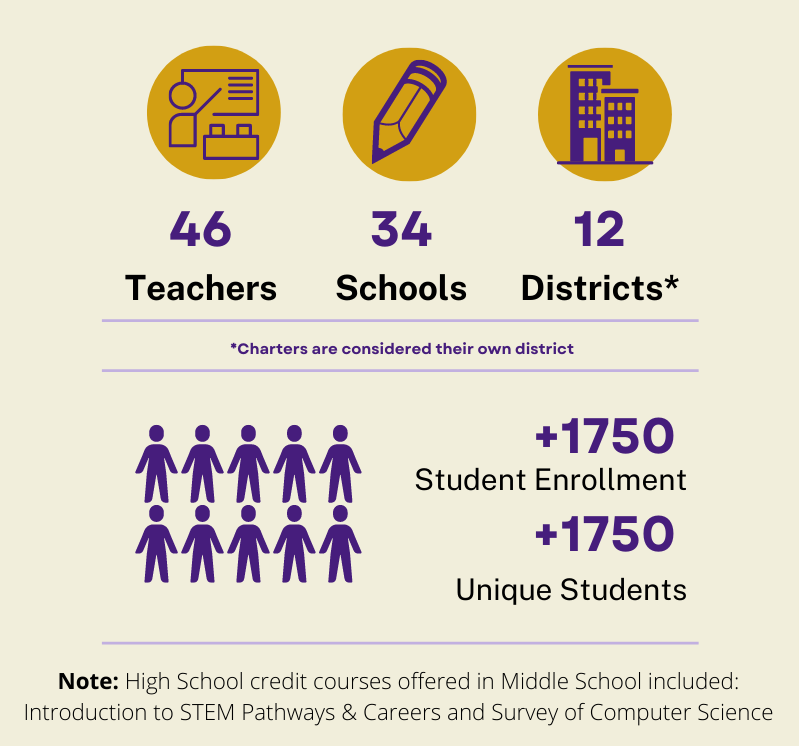
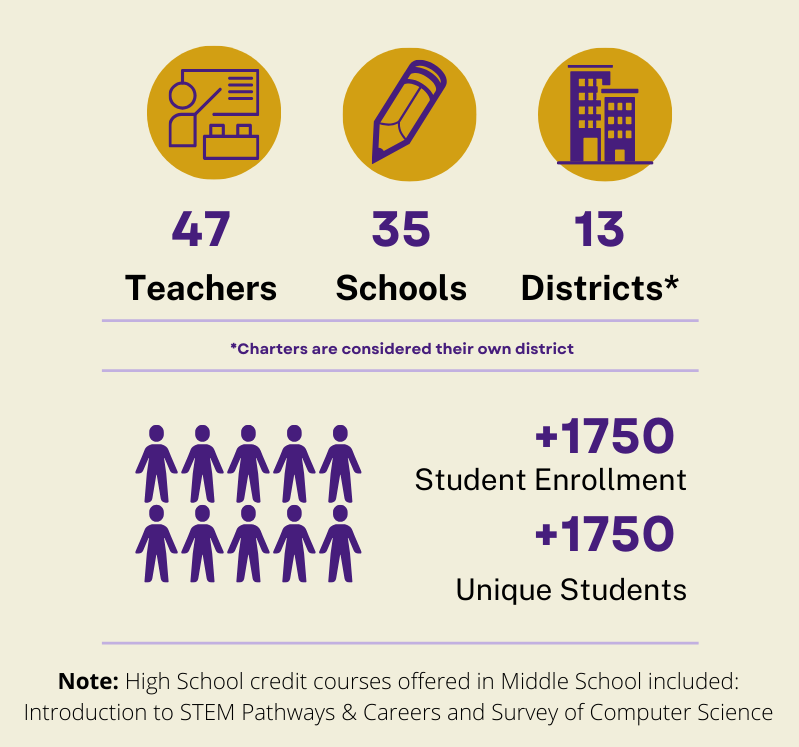
graphics, scholarships, grants, contact info

diff --git a/content/scholarships/_index.md b/content/scholarships/_index.md
@@ -26,31 +26,25 @@ design:
   </tr>
   <tr>
     <td>LSU Pre-Engineering Pathway Gold STEM Seal Scholarship</td>
-    <td>April 14, 2023</td>
+    <td>Opens March 1, 2024</td>
     <td>The LSU Pre-Engineering Pathway Gold STEM Seal Scholarship is a $1,500 scholarship sponsored by the College of Engineering and the Gordon A. Cain center.  It is awarded to one outstanding LSU Pre-Engineering Gold Seal endorsed student entering the College of Engineering each fall. The scholarship is awarded $750 for the fall semester and $750 for the spring semester of the incoming freshman year. For the scholarship to be renewed during the spring semester, the student must maintain a minimum college GPA of 3.0 in the first semester.</td>
     <td><a href="https://lsu.qualtrics.com/jfe/form/SV_8p7m7jaM9PGPEI6" target="_blank"><button style= "background-color:#fdd023; border: none ; border-radius: 5px; padding: 12px"> More Information </button></a> </td>
   </tr>
   <tr>
     <td>LSU VEX Robotics Scholarship</td>
-    <td>April 14, 2023</td>
+    <td>Opens March 1, 2024</td>
     <td>The LSU Pre-Engineering VEX is a $1,000 scholarship awarded to one outstanding LSU freshman student entering the College of Engineering each fall. The scholarship is awarded $500 for the fall semester and $500 for the spring semester of the incoming freshman year. For the scholarship to be renewed during the spring semester, the student must maintain a minimum college GPA of 3.0 in the first semester.</td>
     <td> <a href="https://lsu.qualtrics.com/jfe/form/SV_byIDgMemObpO6IC" target="_blank"><button style= "background-color:#fdd023; border: none ; border-radius: 5px; padding: 12px"> More Information </button></a> </td>
   </tr>
   <tr>
     <td>LSU College of Engineering Scholarship</td>
-    <td>Dec. 15, 2023</td>
+    <td>Dec. 15, 2024</td>
     <td>Automatically considered for scholarship if application to attend LSU is completed by December 15th and the intended major is from the College of Engineering.</td>
     <td> <a href="https://www.lsu.edu/eng/future/engineer-experience/scholarships.php" target="_blank"><button style= "background-color:#fdd023; border: none ; border-radius: 5px; padding: 12px"> More Information </button></a> </td>
   </tr>
   <tr>
-    <td>LSU College of Engineering FIRST Robotics Scholarship</td>
-    <td>Feb. 1, 2023</td>
-    <td>The LSU FIRST Robotics Scholarship is a $1,000/year scholarship awarded to one outstanding FIRST alumnus/alumnae entering the LSU College of Engineering each fall. Recipients can receive the award for up to four years if they remain in good academic (2.5 GPA) and disciplinary standing and demonstrate progress towards a degree from the College of Engineering each semester. The award will be disbursed in $500 installments each semester for up to eight semesters (for a total of up to $4,000).</td>
-    <td> <a href="https://www.lsu.edu/eng/future/engineer-experience/scholarships.php" target="_blank"><button style= "background-color:#fdd023; border: none ; border-radius: 5px; padding: 12px"> More Information </button></a> </td>
-  </tr>
-  <tr>
     <td>LSU PRISE Program</td>
-    <td>Feb. 28, 2023</td>
+    <td>Currently Closed</td>
     <td>The PRISE (Preparing Resilient Individuals for Success in Engineering) Program is an NSF-funded scholarship that is designed to help high-achieving, high potential engineering students with financial hardships persist through graduation. This program provides a need-based scholarship to entering freshmen engineering students for up to eight semesters and offers academic and professional development programs to help our students succeed in engineering.</td>
     <td> <a href="https://www.lsu.edu/eng/future/engineer-experience/scholarships.php" target="_blank"><button style= "background-color:#fdd023; border: none ; border-radius: 5px; padding: 12px"> More Information </button></a> </td>
   </tr>
@@ -71,58 +65,58 @@ design:
   </tr>
   <tr>
     <td>Amazon Future Engineer Scholarship</td>
-    <td>Jan. 20, 2023</td>
+    <td>Dec. 15, 2023</td>
     <td>Amazon Future Engineer Scholarship program provides underserved students with an opportunity to upgrade their careers with a $40,000 scholarship, plus a paid summer internship programming at Amazon.</td>
     <td><a href="https://www.amazonfutureengineer.com/scholarships?utm_campaign=RECFoundation&utm_medium=scholarship&utm_source=US&utm_source=2023+VRC%2FVIQC%2FVEXU+Teams+and+EPs&utm_campaign=70241f413c-EMAIL_CAMPAIGN_2022_10_11_05_49_COPY_01&utm_medium=email&utm_term=0_3efc727138-70241f413c-37686869" target="_blank"><button style= "background-color:#fdd023; border: none ; border-radius: 5px; padding: 12px"> More Information </button></a> </td>
  </tr>
  <tr>
     <td>Society of Women Engineers Scholarship</td>
-    <td>Sophomores and above-- Feb. 1, 2023
+    <td>Sophomores & above: Opens Dec. 2023
     <br>
-     Freshmen-- March 20, 2023
+     Freshmen: Opens Feb. 2024
     </td>
     <td>The SWE Scholarship Program provides financial assistance to those who identify as a woman and are studying community college, baccalaureate, or graduate programs in preparation for careers in engineering, engineering technology and fields related to engineering.</td>
     <td><a href="https://scholarships.swe.org/applications/login.asp" target="_blank"><button style= "background-color:#fdd023; border: none ; border-radius: 5px; padding: 12px"> More Information </button></a> </td>
  </tr>
   <tr>
     <td>The Brown Foundation Emmy Noether Awards</td>
-    <td>Feb. 26, 2023</td>
+    <td>Opens Jan. 2024</td>
     <td>The Emmy Noether Awards seek top aspiring female research scientists in any STEM (science, technology, engineering, or math) field to help realize their potential careers through financial and networking assistance. The Emmy Noether Awards will determine one gold medalist, two silver medalists, and up to 10 Emmy Noether Scholars.</td>
     <td><a href="https://www.thebrownfoundation.org/emmy-noether-award.html" target="_blank"><button style= "background-color:#fdd023; border: none ; border-radius: 5px; padding: 12px"> More Information </button></a> </td>
  </tr>
   <tr>
     <td>American Society of Mechanical Engineers High School Scholarship</td>
-    <td>March 15, 2023</td>
+    <td>Dec. 2023</td>
     <td>Graduating high school students are the next generation of engineers! The ASME INSPIRE Program and the ASME Auxiliary offer scholarships to graduating high school seniors interested in pursuing engineering degrees.</td>
     <td><a href="https://www.asme.org/asme-programs/students-and-faculty/scholarships/available-high-school-scholarships" target="_blank"><button style= "background-color:#fdd023; border: none ; border-radius: 5px; padding: 12px"> More Information </button></a> </td>
  </tr>
  <tr>
     <td>ITE Diversity Scholarship Program</td>
-    <td>March 15, 2023</td>
+    <td>March 15, 2024</td>
     <td>The purpose of this program is to increase underrepresented populations participation in the transportation profession by supporting increased diversity at the undergraduate level.  Diversity in transportation is critical as practitioners seek to fully understand the transportation needs of communities in the development of equitable mobility improvements to many areas of our society. </td>
     <td><a href="../../brochures/ITE.pdf" target="_blank"><button style= "background-color:#fdd023; border: none ; border-radius: 5px; padding: 12px"> More Information </button></a> </td>
  </tr>
  <tr>
     <td>Shell Company Technical Scholarship</td>
-    <td>March 15, 2023</td>
+    <td>March 15, 2024</td>
     <td>The Shell Company Technical Scholarship and Shell Incentive Fund Scholarship have been created to provide financial and career assistance to graduating high school seniors who have expressed an interest in the energy industry and demonstrated an aptitude in mathematics and science.</td>
     <td><a href="https://www.shell.us/careers/about-careers-at-shell/shell-graduate-program/scholarships.html" target="_blank"><button style= "background-color:#fdd023; border: none ; border-radius: 5px; padding: 12px"> More Information </button></a> </td>
  </tr>
  <tr>
     <td>Lockheed Martin STEM Scholarship</td>
-    <td>March 31, 2023</td>
+    <td>Opens early 2024</td>
     <td>Each year, the STEM Scholarship Program awards $10,000 to 200 recipients studying engineering or computer science at a 4-year college or university. Recipients may renew the scholarship up to three times for a total potential value of $40,000 per student.  </td>
     <td><a href="https://lockheedmartin.com/en-us/who-we-are/communities/stem-education/lm-scholarship-program.html" target="_blank"><button style= "background-color:#fdd023; border: none ; border-radius: 5px; padding: 12px"> More Information </button></a> </td>
  </tr>
   <tr>
     <td>Great Minds in STEM Scholars Program</td>
-    <td>April 30, 2023</td>
+    <td>Currently Closed</td>
     <td>The intent of the GMiS Scholars Program is to increase the persistence to graduation among underrepresented and underserved STEM college students. The financial support helps these students focus on their coursework so they can graduate on time, enter a STEM profession, continue to serve as a role model for future generations, and secure the country's place as the finest technological leader in the world. Applicants must be of Hispanic descent and/or must demonstrate significant leadership or service within the underserved community. </td>
     <td><a href="https://greatmindsinstem.org/gmis-scholarship-application/gmis-scholarships/" target="_blank"><button style= "background-color:#fdd023; border: none ; border-radius: 5px; padding: 12px"> More Information </button></a> </td>
  </tr>
  <tr>
     <td>S-STEM Scholars Program</td>
-    <td>Applications are currently closed.</td>
+    <td>Currently Closed</td>
     <td>Funded by the National Science Foundation, the LSU S-STEM Scholars program aims to increase the educational and career opportunities for academically talented, financially disadvantaged students who are pursuing degrees in basic sciences or mathematics. </td>
     <td><a href="https://www.lsu.edu/osi/programs/s-stem-scholars-program/index.php" target="_blank"><button style= "background-color:#fdd023; border: none ; border-radius: 5px; padding: 12px"> More Information </button></a> </td>
  </tr>

diff --git a/content/home/announcements.md b/content/home/announcements.md
@@ -74,21 +74,19 @@ This homepage section is an example of adding [elements](https://sourcethemes.co
 <div style="background-color:#ffffff90; font-color: #000000; border-style: double; padding: 25px">
 <center>
 
-## **2023-24 Pathways Information for School Administrators Now Available**
+## **Pathways Information for School Administrators**
 <br>
 
-The invitation to participate in the LSU STEM pathways program for the 2023-24 school year is now available! Please review this information along with our updated course catalog to determine which courses you would like to offer in the upcoming school year. The Memorandum of Understanding portal will open on March 15th for you to formally commit to offering one or more LSU STEM pathway course in 2023-24. 
-<br>
-For any questions, please email <a href="mailto:stempathways@lsu.edu">stempathways@lsu.edu</a>.
+Formal registration to participate in the LSU STEM pathways for the 2024-25 school year will be available in March. In the meantime, please review our current course catalog.  If you are interested in participating next year and would like to receive more information, please complete the request for information button. For any questions, please email <a href="mailto:stempathways@lsu.edu">stempathways@lsu.edu</a>.
 <br>
 <br>
-<a href="../../brochures/PathwaysInvitation.pdf" target="_blank"><button style= "background-color:#fdd023; border: none ; border-radius: 5px; padding: 12px"> LSU Pathways Invitation </button></a> <a href=" https://college-readiness.lsu.edu/pathways/mou/request" target="_blank"><button style= "background-color:#fdd023; border: none ; border-radius: 5px; padding: 12px"> MoU Request </button></a> <a href="https://docs.google.com/document/d/17UMraBfdxq1d85gddYo6lVdi27QJQEY0xPp_gZklPQo" target="_blank"><button style= "background-color:#fdd023; border: none ; border-radius: 5px; padding: 12px"> Returning Teachers </button></a> <a href="https://docs.google.com/document/d/1QqsUGYCeUTkjkRMGLlsf_fwB9pz9NJf9XhHrXYChm-o" target="_blank"><button style= "background-color:#fdd023; border: none ; border-radius: 5px; padding: 12px"> 2023-24 Course Catalog </button></a>
+<a href=" https://college-readiness.lsu.edu/pathways/mou/request" target="_blank"><button style= "background-color:#fdd023; border: none ; border-radius: 5px; padding: 12px"> Request Information </button></a> <a href="https://docs.google.com/document/d/1QqsUGYCeUTkjkRMGLlsf_fwB9pz9NJf9XhHrXYChm-o/edit" target="_blank"><button style= "background-color:#fdd023; border: none ; border-radius: 5px; padding: 12px"> 2023-24 Course Catalog </button></a> <a href="../../brochures/PathwaysInvitation.pdf" target="_blank"><button style= "background-color:#fdd023; border: none ; border-radius: 5px; padding: 12px"> 2023-24 LSU Pathways Invitation </button></a>
 <br>
-<br>
-
-LSU Pathways Invitation accessible version can be found <a href= "https://docs.google.com/document/d/1Z8_nO-yOT3vCmhjUWEI2_6lAQZ2_c4i8sbxVfDDzmys"> here</a>. 
 <br>
 2023-24 Course Catalog accessible version can be found<a href= "https://docs.google.com/document/d/1fmxepxWRI29BcZZF4nNAClH-a9RUafCg9PGTJMtgEa0"> here.</a>
+<br>
+2023-24 LSU Pathways Invitation accessible version can be found <a href= "https://docs.google.com/document/d/1Z8_nO-yOT3vCmhjUWEI2_6lAQZ2_c4i8sbxVfDDzmys"> here</a>. 
+
 
 </center>
 </div>

diff --git a/content/getinvolved/_index.md b/content/getinvolved/_index.md
@@ -83,18 +83,16 @@ Teacher testimonials accessible version can be found <a href="https://docs.googl
 <br>
 <center>
 
-The invitation to participate in the LSU STEM pathways program for the 2023-24 school year is now available! Please review this information along with our updated course catalog to determine which courses you would like to offer in the upcoming school year. The Memorandum of Understanding portal will open on March 15th for you to formally commit to offering one or more LSU STEM pathway course in 2023-24. 
-<br>
-For any questions, please email <a href="mailto:stempathways@lsu.edu">stempathways@lsu.edu</a>.
+Formal registration to participate in the LSU STEM pathways for the 2024-25 school year will be available in March. In the meantime, please review our current course catalog.  If you are interested in participating next year and would like to receive more information, please complete the request for information button. For any questions, please email <a href="mailto:stempathways@lsu.edu">stempathways@lsu.edu</a>.
 <br>
 <br>
-<a href="../../brochures/PathwaysInvitation.pdf" target="_blank"><button style= "background-color:#fdd023; border: none ; border-radius: 5px; padding: 12px"> LSU Pathways Invitation </button></a> <a href=" https://college-readiness.lsu.edu/pathways/mou/request" target="_blank"><button style= "background-color:#fdd023; border: none ; border-radius: 5px; padding: 12px"> MoU Request </button></a> <a href="https://docs.google.com/document/d/17UMraBfdxq1d85gddYo6lVdi27QJQEY0xPp_gZklPQo" target="_blank"><button style= "background-color:#fdd023; border: none ; border-radius: 5px; padding: 12px"> Returning Teachers </button></a> <a href="https://docs.google.com/document/d/1QqsUGYCeUTkjkRMGLlsf_fwB9pz9NJf9XhHrXYChm-o" target="_blank"><button style= "background-color:#fdd023; border: none ; border-radius: 5px; padding: 12px"> 2023-24 Course Catalog </button></a>
+<a href=" https://college-readiness.lsu.edu/pathways/mou/request" target="_blank"><button style= "background-color:#fdd023; border: none ; border-radius: 5px; padding: 12px"> Request Information </button></a> <a href="https://docs.google.com/document/d/1QqsUGYCeUTkjkRMGLlsf_fwB9pz9NJf9XhHrXYChm-o/edit" target="_blank"><button style= "background-color:#fdd023; border: none ; border-radius: 5px; padding: 12px"> 2023-24 Course Catalog </button></a> <a href="../../brochures/PathwaysInvitation.pdf" target="_blank"><button style= "background-color:#fdd023; border: none ; border-radius: 5px; padding: 12px"> 2023-24 LSU Pathways Invitation </button></a>
 <br>
-<br>
-
-LSU Pathways Invitation accessible version can be found <a href= "https://docs.google.com/document/d/1Z8_nO-yOT3vCmhjUWEI2_6lAQZ2_c4i8sbxVfDDzmys"> here</a>. 
 <br>
 2023-24 Course Catalog accessible version can be found<a href= "https://docs.google.com/document/d/1fmxepxWRI29BcZZF4nNAClH-a9RUafCg9PGTJMtgEa0"> here.</a>
+<br>
+2023-24 LSU Pathways Invitation accessible version can be found <a href= "https://docs.google.com/document/d/1Z8_nO-yOT3vCmhjUWEI2_6lAQZ2_c4i8sbxVfDDzmys"> here</a>. 
+
 
  </center>
  </div>

diff --git a/content/grants/_index.md b/content/grants/_index.md
@@ -35,13 +35,8 @@ If successful, this study will inform development of future courses nationwide t
 ## Micro-Credential Grant
 <br>
 
-What is the Louisiana STEM Micro-Credential Project?
-This project involves the development and testing of a set of micro-credentials intended to allow teachers to apply what they have learned through their STEM Pathway training to the classes they teach. The partners involved in this project include:
+What is the Louisiana STEM Micro-Credential Project? This project involves the development and testing of a set of micro-credentials intended to allow teachers to apply what they have learned through their STEM Pathway training to the classes they teach. The micro-credential grant is no longer actively recruiting, but check back here for the results of the study which will be available in 2025!
 
-- Louisiana Department of Education (LDOE)
-- Louisiana State University (LSU) 
-- BloomBoard
-- RAND Corporation
 
 <br>
 <!-- <a href="../../brochures/MicrocredentialFlyer.pdf" target="_blank"><button style= "background-color:#fdd023; border: none ; border-radius: 5px; padding: 12px"> Micro-Credential Flyer </button></a>  -->

diff --git a/content/about/_index.md b/content/about/_index.md
@@ -165,7 +165,7 @@ In 2022-23, we are serving 103 schools who are offering high school and middle s
 
 {{< /spoiler >}}
 
-<img src = "../../../graphics/allgraphic.png" alt= "This image shows that in 2022-23, LSU STEM Pathways enrolled 204 teachers, 103 schools, 41 districts, and offered 28 courses. There were over 9300 students enrolled." width="425" height="525" style ="float: left">
+<img src = "../../../graphics/allgraphic.png" alt= "This image shows that in 2022-23, LSU STEM Pathways enrolled 209 teachers, 104 schools, 43 districts, and offered 28 courses. There were over 10,000 students enrolled." width="425" height="525" style ="float: left">
 <img src="https://media.giphy.com/media/vYwQ4q6Jyi1MUi8T0U/giphy.gif" alt="This is a gif that has 6 slides each displayed for 2 seconds.  Each slide shows a map of Louisiana and the parishes that are offering STEM pathway courses in each year from  2016-17 to 2022-23 are varying shades of yellow. 17/18: 8, 18/19: 26, 19/20: 39, 20/21: 54 21/22: 71, 22/23: 121 anticipated. " width="450" height="550">
 <center>
 <table>

diff --git a/content/project/High School/index.md b/content/project/High School/index.md
@@ -40,7 +40,7 @@ LSU Pathways for high school is a robust curriculum designed for in-depth study 
 
 ## <b> Who Does LSU STEM Pathways for High School in 2022-23? </b>
 
-<img src = "../../../graphics/hsgraphic.png" alt = "This image shows that in 2022-23, LSU STEM Pathways enrolled 56 teachers, 70 schools, 37 districts, and offered 25 courses for this program. There were over 7100 students enrolled." width="550" height="650">
+<img src = "../../../graphics/hsgraphic.png" alt = "This image shows that in 2022-23, LSU STEM Pathways enrolled 166 teachers, 76 schools, 39 districts, and offered 26 courses for this program. There were over 7800 students enrolled." width="550" height="650">
 <img src = "../../../graphics/hsmap.png" alt = "This image shows a map of Louisiana with the participating parishes highlighted in shades of yellow. The data shows that we are serving 70 schools this year. For more detailed information, please email stempathways@lsu.edu." width="550" height="650"> 
 
 ## Basic Career Readiness Course (All Pathways)

diff --git a/content/project/Middle School/index.md b/content/project/Middle School/index.md
@@ -22,7 +22,7 @@ While the Louisiana Department of Education (LDOE) STEM Pathways are designed fo
 
 ## <b> Who Does Middle School LSU STEM Pathways for High School Credit in 2022-23? </b>
 
-<img src = "../../../graphics/msgraphichsc.png" alt= "This image shows that in 2022-23, LSU STEM Pathways enrolled 46 teachers, 34 schools, and 12 districts for this program. There were over 1750 students enrolled." width="550" height="650">
+<img src = "../../../graphics/msgraphichsc.png" alt= "This image shows that in 2022-23, LSU STEM Pathways enrolled 47 teachers, 35 schools, and 13 districts for this program. There were over 1750 students enrolled." width="550" height="650">
 <img src = "../../../graphics/msmaphsc.png" alt = "This image shows a map of Louisiana with the participating parishes highlighted in shades of yellow. The data shows that we are serving 34 schools this year. For more detailed information, please email stempathways@lsu.edu." width="550" height="650">
 
 ## High School Credit Course Information
